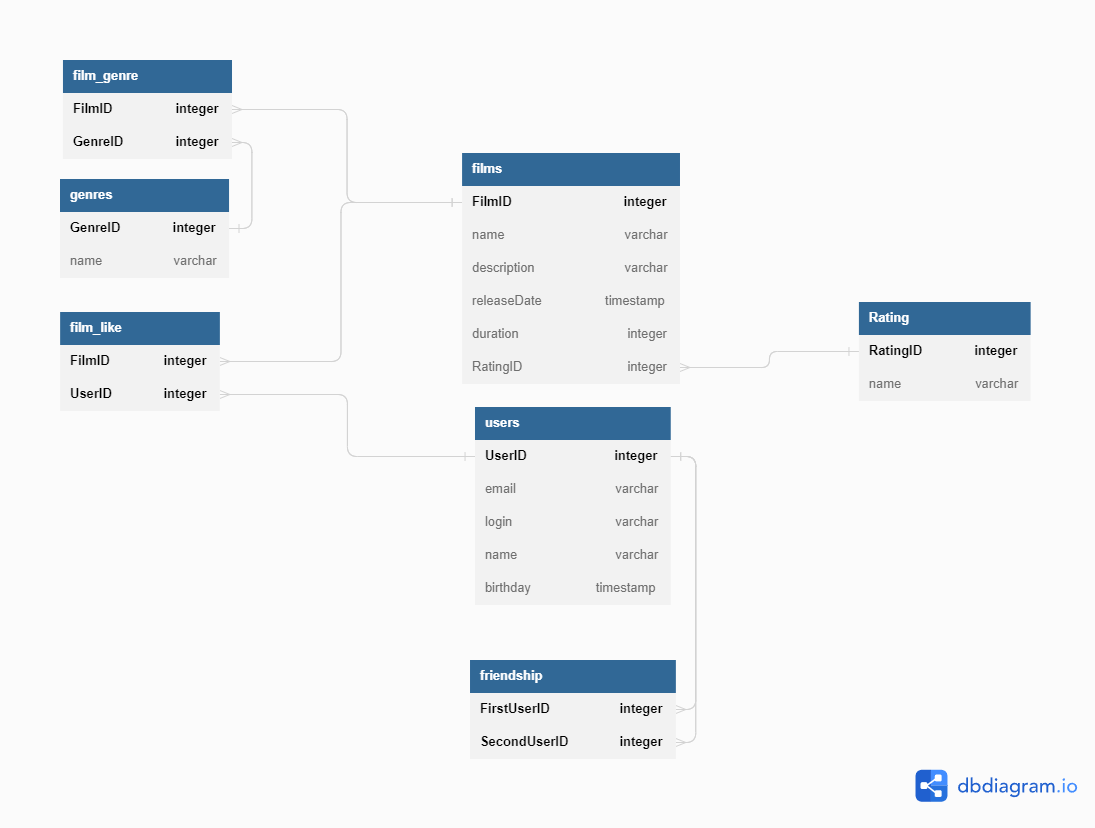
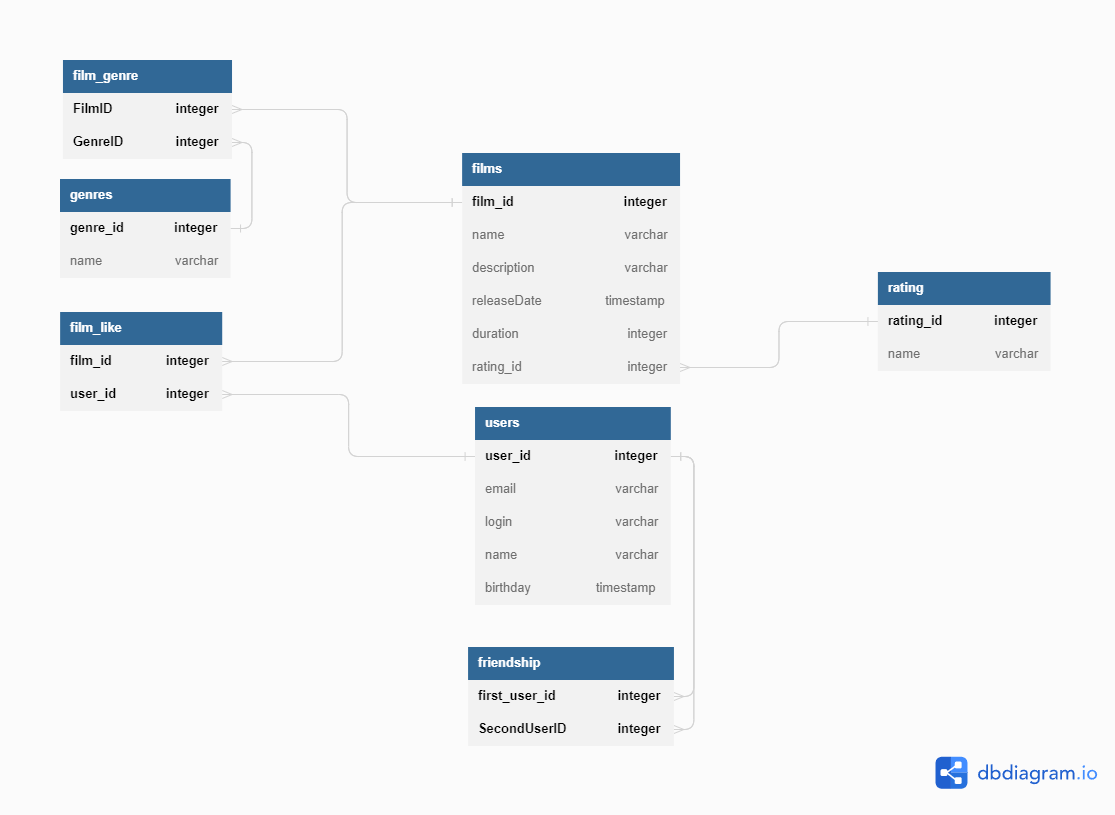
style: Изменить названия полей в диаграмме, а также в README

diff --git a/README.md b/README.md
@@ -30,16 +30,16 @@
 ## Описание
 ### films
 Содержит информацию о фильмах
-- первичный ключ `FilmID` - идентификатор фильма;
+- первичный ключ `film_id` - идентификатор фильма;
 - `name` - название фильма;
 - `description` - описание фильма;
 - `releaseDate` - дата выхода фильма;
 - `duration` - длительность фильма;
--  внешний ключ `RatingID` (отсылает к таблице `Rating`) — идентификатор рейтинга фильма;
-### Rating
+-  внешний ключ `rating_id` (отсылает к таблице `Rating`) — идентификатор рейтинга фильма;
+### rating
 Содержит информацию о рейтинге Ассоциации кинокомпаний (англ. Motion Picture Association,
 сокращённо МРА). Эта оценка определяет возрастное ограничение для фильма
-- первичный ключ `RatingID` - идентификатор рейтинга ;
+- первичный ключ `rating_id` - идентификатор рейтинга ;
 - `name` - название рейтинга, например:
     - G — у фильма нет возрастных ограничений,
     - PG — детям рекомендуется смотреть фильм с родителями,
@@ -49,11 +49,11 @@
 ### film_genre
 Содержит информацию о том, какие жанры из таблицы `genres` относятся к фильму.
 Таблица включает поля:
-- составной первичный и внешний ключ `FilmID` (отсылает к таблице `films`) - идентификатор фильма;
-- составной первичный и внешний ключ `GenreID` (отсылает к таблице `genres`) - идентификатор жанра;
+- составной первичный и внешний ключ `film_id` (отсылает к таблице `films`) - идентификатор фильма;
+- составной первичный и внешний ключ `genre_id` (отсылает к таблице `genres`) - идентификатор жанра;
 ### genres
 Содержит информацию о жанрах фильмов
-- первичный ключ `GenreID` - идентификатор жанра ;
+- первичный ключ `genre_id` - идентификатор жанра ;
 - `name` - название жанра, например:
     - Комедия.
     - Драма.
@@ -63,7 +63,7 @@
     - Боевик.
 ### users
 Содержит информацию о пользователях
-- первичный ключ `UserID` - идентификатор пользователя;
+- первичный ключ `user_id` - идентификатор пользователя;
 - `email` - электронная почта пользователя;
 - `login` - логин пользователя;
 - `name` - имя пользователя;
@@ -72,12 +72,12 @@
 Содержит информацию о том, какой пользователь из таблицы `users` поставил лайк
 фильму из таблицы `films`. Таблица включает поля:
 
-- составной первичный и внешний ключ `FilmID` (отсылает к таблице `films`) - идентификатор фильма;
-- составной первичный и внешний ключ `UserID` (отсылает к таблице `users`) - идентификатор пользователя;
+- составной первичный и внешний ключ `film_id` (отсылает к таблице `films`) - идентификатор фильма;
+- составной первичный и внешний ключ `user_id` (отсылает к таблице `users`) - идентификатор пользователя;
 
 ### friendship
 Содержит информацию о статусах дружбы между пользователями из таблицы
 `users`. Таблица включает поля:
 
-- составной первичный и внешний ключ `FirstUserID` (отсылает к таблице `users`) - идентификатор пользователя №1;
-- составной первичный и внешний ключ `SecondUserID` (отсылает к таблице `users`) - идентификатор пользователя №2;
+- составной первичный и внешний ключ `first_user_id` (отсылает к таблице `users`) - идентификатор пользователя №1;
+- составной первичный и внешний ключ `second_user_id` (отсылает к таблице `users`) - идентификатор пользователя №2;
